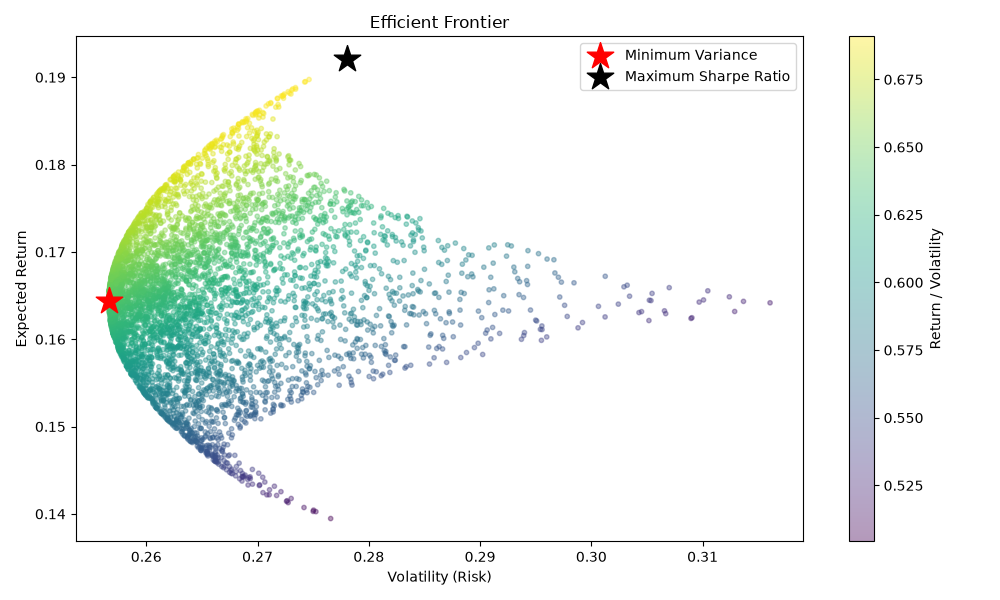
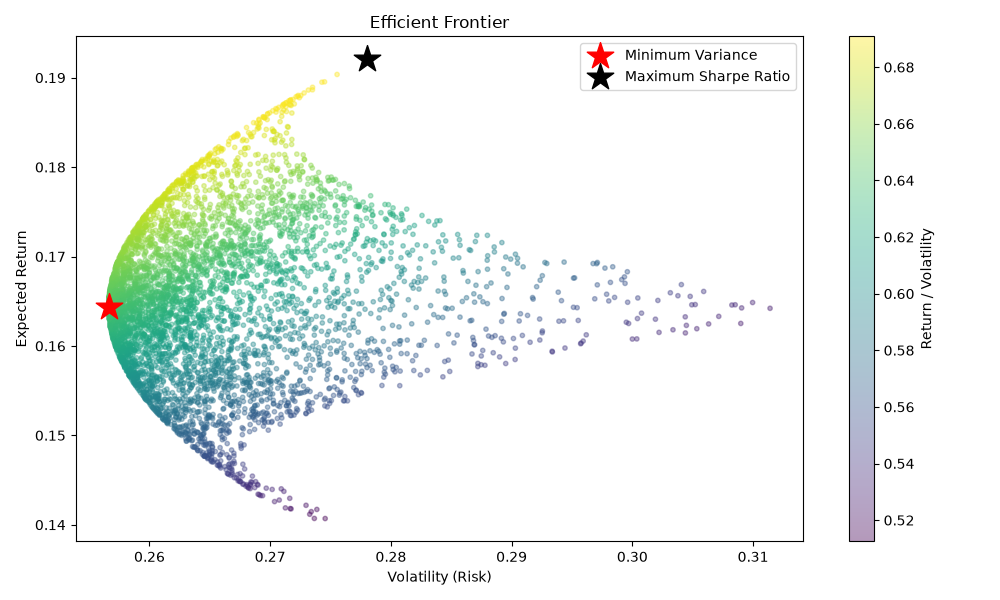
Add cumulative returns and portfolio allocation charts

diff --git a/notebooks/check_visualization.py b/notebooks/check_visualization.py
@@ -1,7 +1,22 @@
 from src.quantlab.data.fetch import fetch_price_data
 from src.quantlab.analytics.returns import calculate_log_returns
-from src.quantlab.analytics.risk import calculate_correlation_matrix
-from src.quantlab.visualization.charts import plot_correlation_heatmap
+from src.quantlab.analytics.risk import (
+    calculate_correlation_matrix,
+    calculate_annualized_return,
+    calculate_covariance_matrix,
+)
+from src.quantlab.optimization.portfolio import (
+    run_monte_carlo_simulation,
+    find_minimum_variance_portfolio,
+    find_max_sharpe_portfolio,
+    find_max_sharpe_portfolio_capped,
+)
+from src.quantlab.visualization.charts import (
+    plot_correlation_heatmap,
+    plot_efficient_frontier,
+    plot_cumulative_returns,
+    plot_portfolio_allocation,
+)
 
 prices = fetch_price_data(
     tickers=["AAPL", "MSFT", "GOOG"],
@@ -14,14 +29,6 @@ correlation = calculate_correlation_matrix(returns)
 
 plot_correlation_heatmap(correlation)
 
-from src.quantlab.analytics.risk import calculate_annualized_return, calculate_covariance_matrix
-from src.quantlab.optimization.portfolio import (
-    run_monte_carlo_simulation,
-    find_minimum_variance_portfolio,
-    find_max_sharpe_portfolio,
-)
-from src.quantlab.visualization.charts import plot_efficient_frontier
-
 annual_returns = calculate_annualized_return(returns)
 cov_matrix = calculate_covariance_matrix(returns)
 
@@ -30,3 +37,8 @@ min_var = find_minimum_variance_portfolio(annual_returns, cov_matrix)
 max_sharpe = find_max_sharpe_portfolio(annual_returns, cov_matrix)
 
 plot_efficient_frontier(simulation_results, min_var, max_sharpe)
+
+plot_cumulative_returns(returns)
+
+capped_portfolio = find_max_sharpe_portfolio_capped(annual_returns, cov_matrix, max_weight=0.4)
+plot_portfolio_allocation(capped_portfolio["weights"], list(annual_returns.index))

diff --git a/src/quantlab/visualization/charts.py b/src/quantlab/visualization/charts.py
@@ -1,6 +1,7 @@
 import matplotlib.pyplot as plt
 import pandas as pd
 import seaborn as sns
+import numpy as np
 
 
 def plot_correlation_heatmap(correlation_matrix: pd.DataFrame) -> None:
@@ -79,3 +80,44 @@ def plot_efficient_frontier(
     plt.tight_layout()
     plt.savefig("notebooks/efficient_frontier_final.png")
     plt.show()
+    
+
+  
+def plot_cumulative_returns(returns: pd.DataFrame) -> None:
+    """
+    Plot cumulative growth of $1 invested in each asset over time.
+
+    Args:
+        returns: DataFrame of daily log returns, one column per ticker.
+    """
+    cumulative_log_returns = returns.cumsum()
+    growth = np.exp(cumulative_log_returns)
+
+    plt.figure(figsize=(10, 6))
+    for ticker in growth.columns:
+        plt.plot(growth.index, growth[ticker], label=ticker)
+
+    plt.xlabel("Date")
+    plt.ylabel("Growth of $1")
+    plt.title("Cumulative Returns")
+    plt.legend()
+    plt.tight_layout()
+    plt.savefig("notebooks/cumulative_returns.png")
+    plt.show()
+    
+def plot_portfolio_allocation(weights: np.ndarray, tickers: list[str]) -> None:
+    """
+    Plot a pie chart of portfolio weights.
+
+    Args:
+        weights: Array of portfolio weights, one per asset.
+        tickers: List of ticker symbols, matching the order of weights.
+    """
+    plt.figure(figsize=(7, 7))
+    plt.pie(weights, labels=tickers, autopct="%1.1f%%", startangle=90)
+    plt.title("Portfolio Allocation")
+    plt.tight_layout()
+    plt.savefig("notebooks/portfolio_allocation.png")
+    plt.show()
+    
+    
